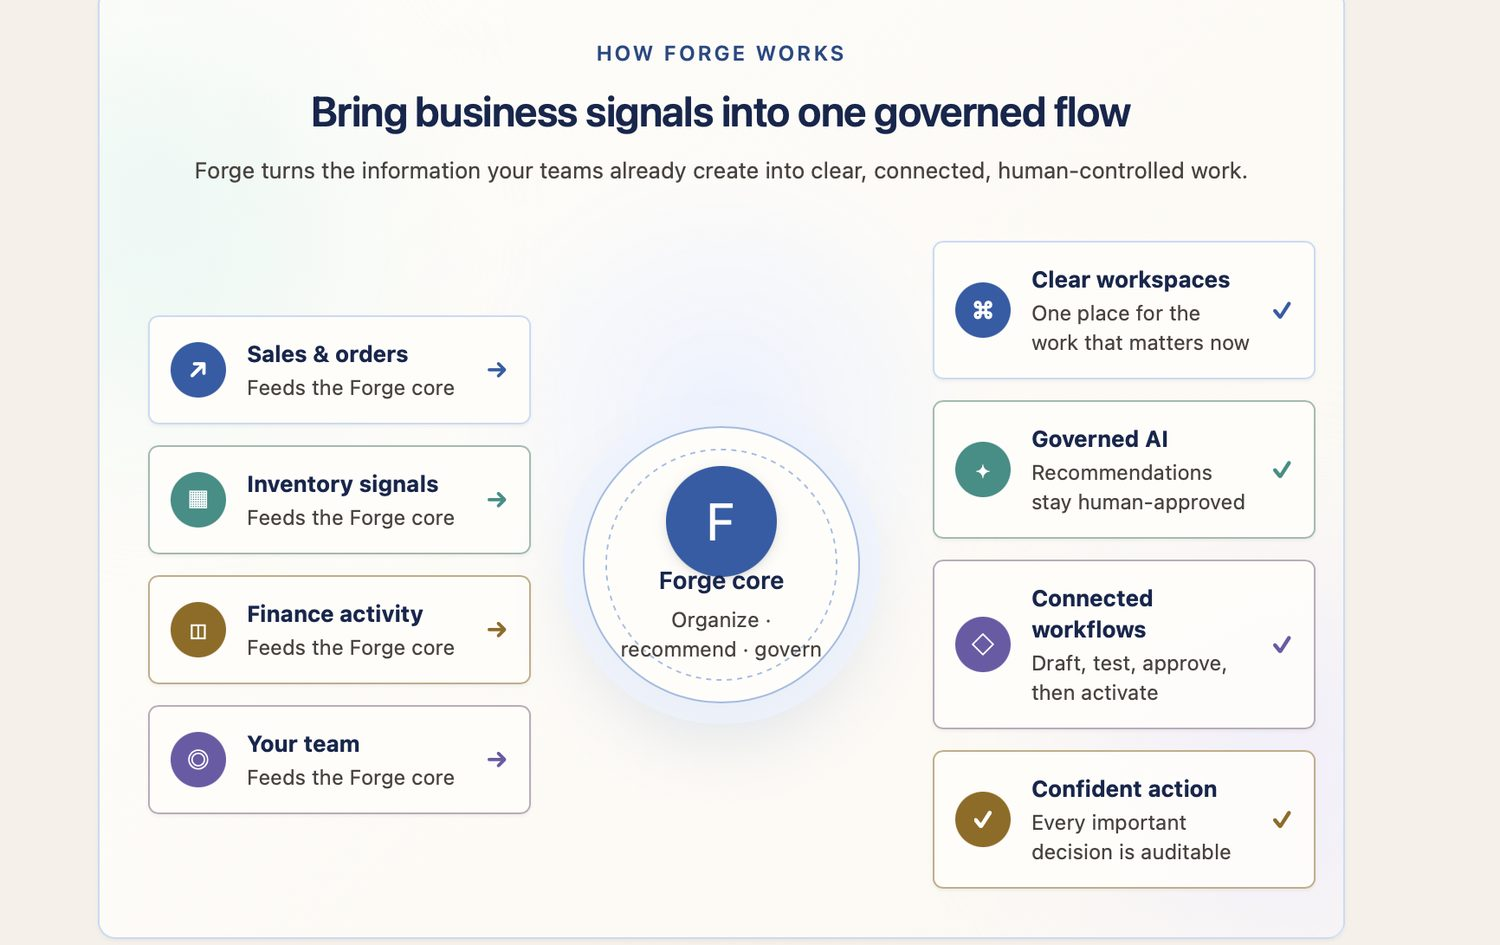
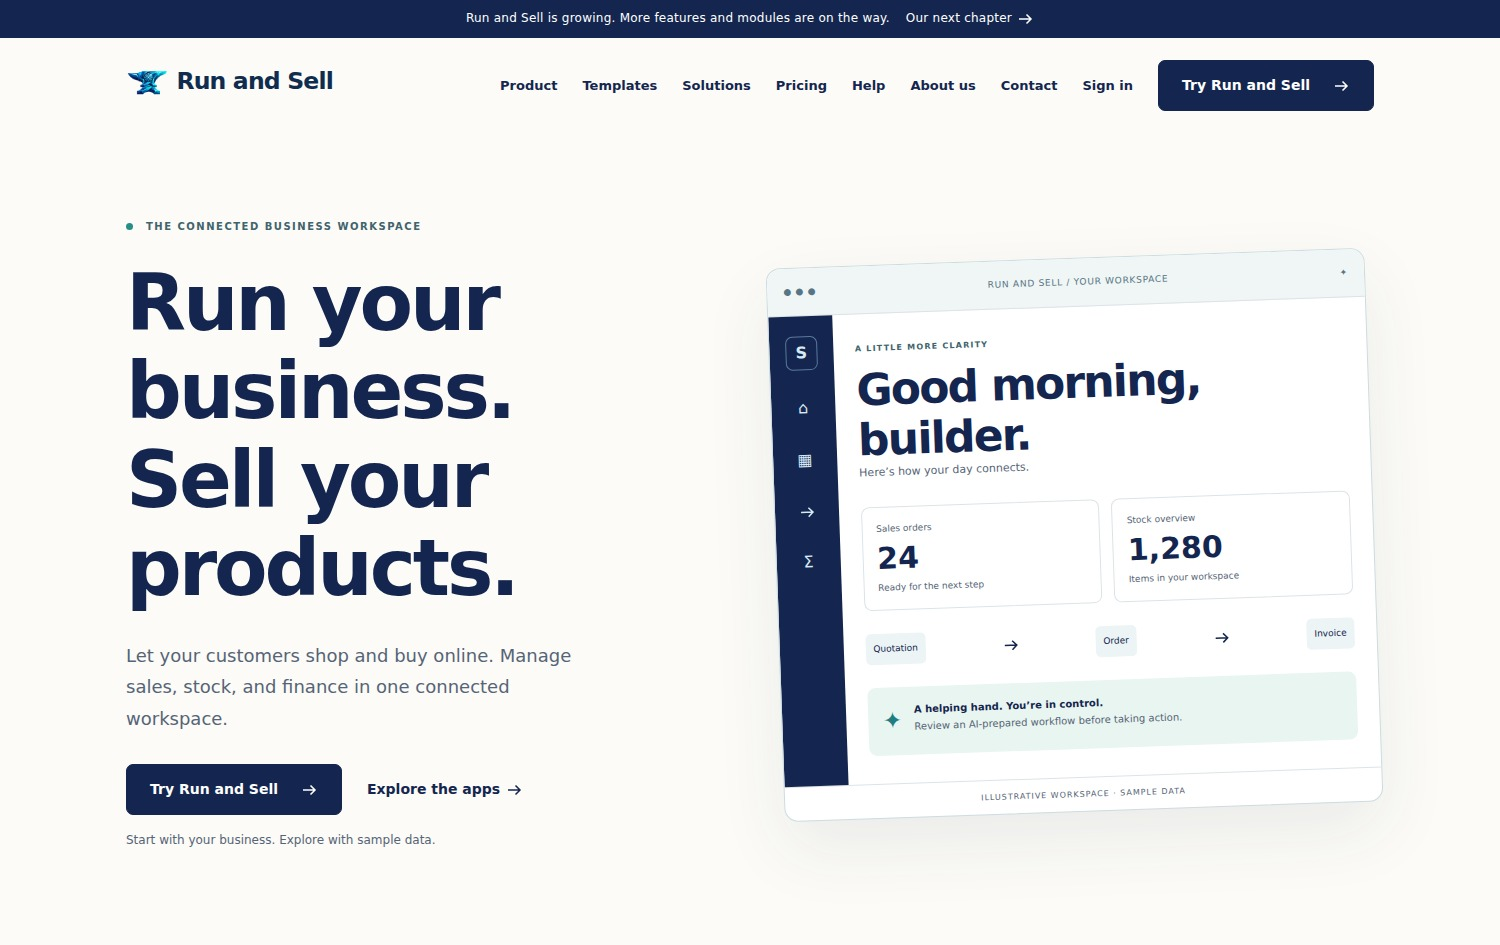
Refresh Run And Sell homepage screenshot

diff --git a/releases/20260921-1342/assets/js/site.js b/releases/20260921-1342/assets/js/site.js
@@ -34,9 +34,9 @@
      points:["A 3D globe children can spin and zoom", "Every country filled with its own flag", "What a place is known for, who came from it, what happened there", "Quizzes to test what actually stuck"],
      desc:"An interactive atlas where children spin a 3D globe, open countries filled with their own flags, and meet the people, places, and moments that made them — then test what stuck with a quiz."},
     {id:"forge", name:"Run And Sell", kind:"Commerce / ERP", status:"Live product", s:"live",
-     fig:"Fig. 05 — governed flow", img:"assets/img/forge-app.jpg", icon:"assets/img/forge-icon.png",
+     fig:"Fig. 05 — connected business workspace", img:"assets/img/forge-app.jpg?v=20261021-runnsell", icon:"assets/img/forge-icon.png",
      url:"https://runnsell.com",
-     alt:"Run And Sell, showing business signals feeding a governed core that returns workspaces, recommendations, and auditable actions",
+     alt:"Run And Sell homepage with the tagline Run your business. Sell your products. and a preview of its connected business workspace",
      brief:"Run your business. Sell your products.",
      points:["Sales, inventory, finance, and people in one workspace", "Twelve storefront templates for different retail categories", "Customize themes, branding, page sections, and product collections", "Multilingual storefronts for customers across languages and regions", "Preview storefront drafts before publishing; review AI recommendations before approval"],
      desc:"Run your business. Sell your products. Run And Sell brings sales, inventory, finance, and people into an AI-assisted workspace with connected online storefronts. Start with a storefront template, tailor the design and product collections to your brand, and present your products in multiple languages to reach customers across regions."},

diff --git a/releases/20260921-1342/index.html b/releases/20260921-1342/index.html
@@ -296,6 +296,6 @@ m-1540 -432 c99 -51 119 -180 41 -269 -47 -54 -148 -65 -209 -22 -93 64 -105
     </div>
   </footer>
 </main>
-<script src="assets/js/site.js?v=20261021-runnsell-storefronts" defer></script>
+<script src="assets/js/site.js?v=20261021-runnsell-homepage" defer></script>
 </body>
 </html>
